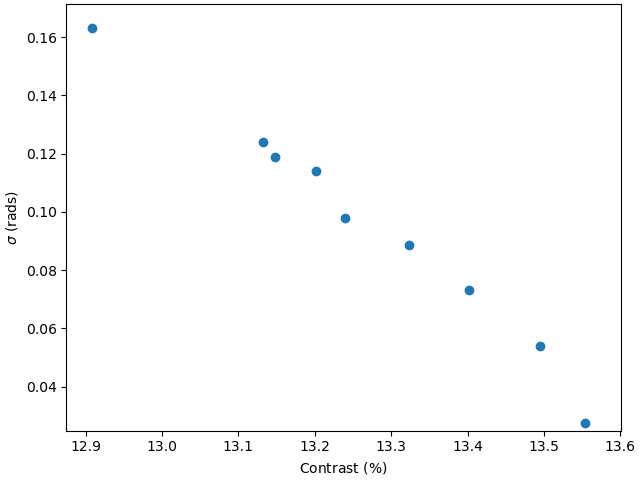
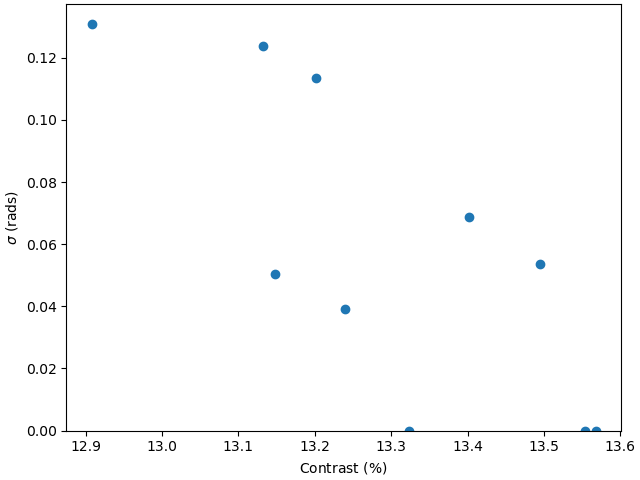
new file:   comparison_jitter_cameras.py 	modified:   infer_jitter_series_v2py 	modified:   restore_jitter.py

diff --git a/restore_jitter.py b/restore_jitter.py
@@ -21,10 +21,10 @@ plt.rcParams['figure.constrained_layout.use'] = True
 Imports and plots the set of Zernike coefficients and
 the wavefront map over the different subfields.
 """
-wfe_corrected_comparison=False #Restore the WFE of the jittered image?
-ind1=1#0 #First index of the series#
-ind2=70#15#9 #Last index of the series
-fps=5 #Number of frames per second for the movie
+wfe_corrected_comparison=True #Restore the WFE of the jittered image?
+ind1=0#0 #First index of the series#
+ind2=70 #70#15#10 #Last index of the series
+
 k_max=9 #Number of txt files employed to average the wavefront
 low_f=0.2 #Cutoff of the Wiener filter
 reg1=0.05 #0.02 #Regularization factor used when computing Q
@@ -32,35 +32,40 @@ reg2=1 #Regularization factor used when computing Q
 cobs=32.4 #18.5 (MPS) 32.4 (Sunrise) #Diameter of central obscuration as a percentage of the aperture
 Jmax=22# 16 or 22.Maximum index of the zernike polynomials
 Jmin=4 #Minimum index of the zernike polynomials
-#N0=400 #Size of the focused/defocused images in the FITS file
 magnif=2.47 #Magnification factor of TuMag
 plate_scale= 0.0378 #Plate scale in arcseconds (arcsec/pixel)
 
 
 #Region to be subframed
-crop=False #If True, it crops the image using x0, xf, y0 and yf as limits
+crop=True #If True, it crops the image using x0, xf, y0 and yf as limits
 x0=200 #200 or 400 #Initial pixel of the subframe in X direction
 xf=x0+1600 #900 or 1600 #Final pixel of the subframe in X direction
 y0=x0 #Initial pixel of the subframe in Y direction
 yf=xf  #FInal pixel of the subframe in Y direction
 
 #Path and name of the FITS file containing the focused and defocused images
-fsigma='sigma_D14-45403-50000'
-fname='D14-45403-50000' #Data file
+fsigma='sigma_D14-45403-50000_cam1'
+fname='D14-45403-50000_cam1'#Data file
 ext='.fits' #Format of the images to be opened (FITS)
 dir_folder='./' #Path of the folder containing the FITS file
 ffolder='Flight/Jitter/FS_1_2024_07_14'#'Flight/COMM_1_10_7_13_14' #Name of the folder containing th FITS file
 pref='52502' #Prefilter employed
 
 ext='.fits' #Extention of the data file
-txtname='zeros'#'PD_14_7_13_07_cam_0_52502_ima_1'#'zeros' if no WFE correction
+txtname='PD_14_7_13_07_cam_0_52502_ima_1'#'zeros' if no WFE correction
 txtfolder=dir_folder +'txt/'+txtname #Path of the txt files
 sigma=np.load(fsigma+'.npy')
 cam=0 #0 or 1. Camera index
 wave=0 #From 0 to 10. Wavelength index
 modul=0 #From 0 to 4. Modulation index
 
-
+#Compute the umber of frames per second based on the number of images
+if (ind2-ind1)<30:
+    fps=3
+elif (ind2-ind1)<100:
+    fps=5 
+elif (ind2-ind1)>=100:
+    fps=8
 """
 Read image
 """

diff --git a/comparison_jitter_cameras.py b/comparison_jitter_cameras.py
@@ -1,0 +1,26 @@
+import numpy as np
+import matplotlib.pyplot as plt
+
+# Jitter file name for cam0 and cam1
+ind1=0 #Initial frame
+ind2=70 #Final frame
+sigmafolder='./Jitter estimations'
+fsigma='sigma_D14-45403-50000'
+
+# Load the jitter data for cam0 and cam1
+sigma_cam0 = np.load(sigmafolder+'/'+fsigma+'_cam0.npy')
+sigma_cam1 = np.load(sigmafolder+'/'+fsigma+'_cam1.npy')
+
+#Compute rms value
+sigma_rms_cam0=np.sqrt(sigma_cam0[ind1:ind2,0]**2+sigma_cam0[ind1:ind2,1]**2)
+sigma_rms_cam1=np.sqrt(sigma_cam1[ind1:ind2,0]**2+sigma_cam1[ind1:ind2,1]**2)
+
+# Plot the jitter values
+plt.figure(figsize=(10, 5))
+plt.plot(sigma_rms_cam0, label='Cam0 Jitter',marker='o')
+plt.plot(sigma_rms_cam1, label='Cam1 Jitter',marker='o')
+plt.xlabel('Frame')
+plt.ylabel('Jitter Value')
+plt.title('Jitter Values for Cam0 and Cam1')
+plt.legend()
+plt.show()
